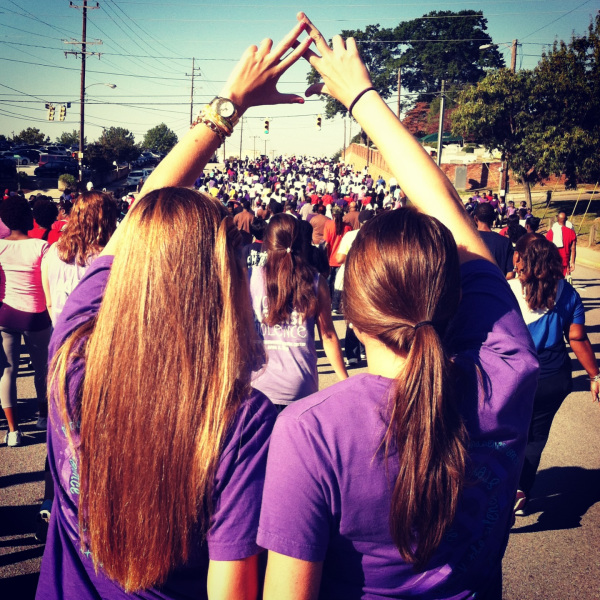
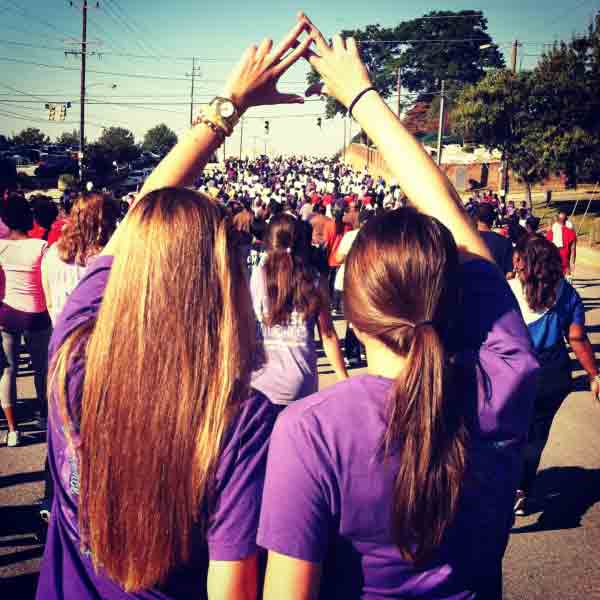
reduced images sizes

diff --git a/root/pages/about.html b/root/pages/about.html
@@ -146,7 +146,7 @@
         <section class="flex">
            <article class="aboutCol">
            
-           <img class="staff" src="../images/meetstaffoptimized4.png" alt="staff" />
+           <img class="staff" src="../images/meetstaff.jpg" alt="staff" />
           <p><span class="rubik">Kaj Leonard:</span> LNW Insurance Administrators <br/>
            <label class="bio"><i class="fa fa-chevron-circle-right" aria-hidden="true"></i></label>
             <a href="#">View bio</a>  
@@ -233,7 +233,7 @@
             
              <section class="flex">
            <article class="aboutCol">
-             <img src="../images/history.png" alt="history" />
+             <img src="../images/history.jpg" alt="history" />
              
               <p><i class="fa fa-history" aria-hidden="true"></i> 1974  &#45; Five local Oceanside women realized that there was a need for a “rape crisis” social services agency in North San Diego County. They applied for and received a grant from San Diego County for $45,000 to open the Women’s Resource Center. Their first facility was on South Hill Street (now South Coast Highway), which they shared with the Chicano Federation. Local police departments welcomed WRC as a valuable assistance to them, and a close relationship was formed over the next several years.</p> <p> The demand for services was expanded to include programs to respond to child abuse and domestic violence. Seventeen to eighteen “underground” homes where battered women could be taken and sheltered were located within the community. Demand for the agency’s services continued to grow. These services included &#58;</p>
               

diff --git a/root/pages/events.html b/root/pages/events.html
@@ -149,7 +149,7 @@
            <p>WRC will begin our volunteer training on Saturday Jan 6th – Jan 27th.  This training is for those who have wanted to provide help to victims of domestic violence and sexual assault in a meaningful way. </p> <p> The classes will take you through Domestic Violence 101, Crisis Intervention, Animal Abuse, Child Abuse, and more.  When you have completed the training you will be asked to volunteer as part of WRC’s Hotline and Sexual Assault Advocate for at least 1 year. </p> <p> It is a big commitment but also a very rewarding one.  If you are interested please call 760-547-8817 and speak to Andrea our Volunteer Coordinator.</p>
            <span class="rubik"><a href="#">Sign up here!</a> </span>
            <br/><br/>
-           <img class="volenteer" src="../images/events-volunteers-hands.png" alt="volenteers hands" />
+           <img class="volenteer" src="../images/events-volunteers-hands.jpg" alt="volenteers hands" />
            
            
               </article>
@@ -203,7 +203,7 @@
             <span class="rubik"><a href="#"> For Purchasing Tickets Click Here!</a> </span>
            <br/>
            
-           <a href="../images/events-have-A-heart.png"><img class="heart" src="../images/events-have-A-heart.png" alt="have-a-heart" /></a>
+           <a href="../images/events-have-A-heart.jpg"><img class="heart" src="../images/events-have-A-heart.jpg" alt="have-a-heart" /></a>
            <br/>  
           
         </article>
